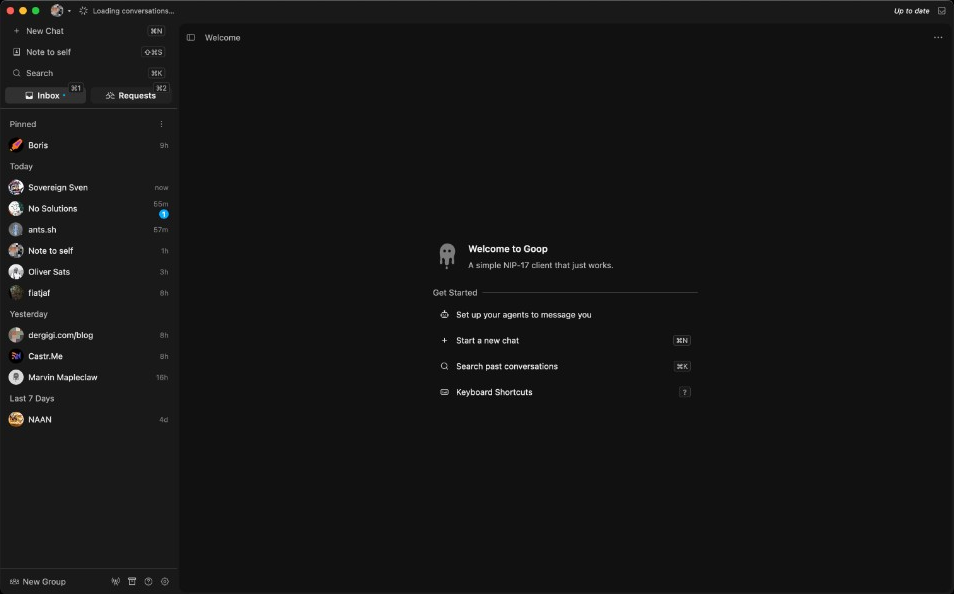
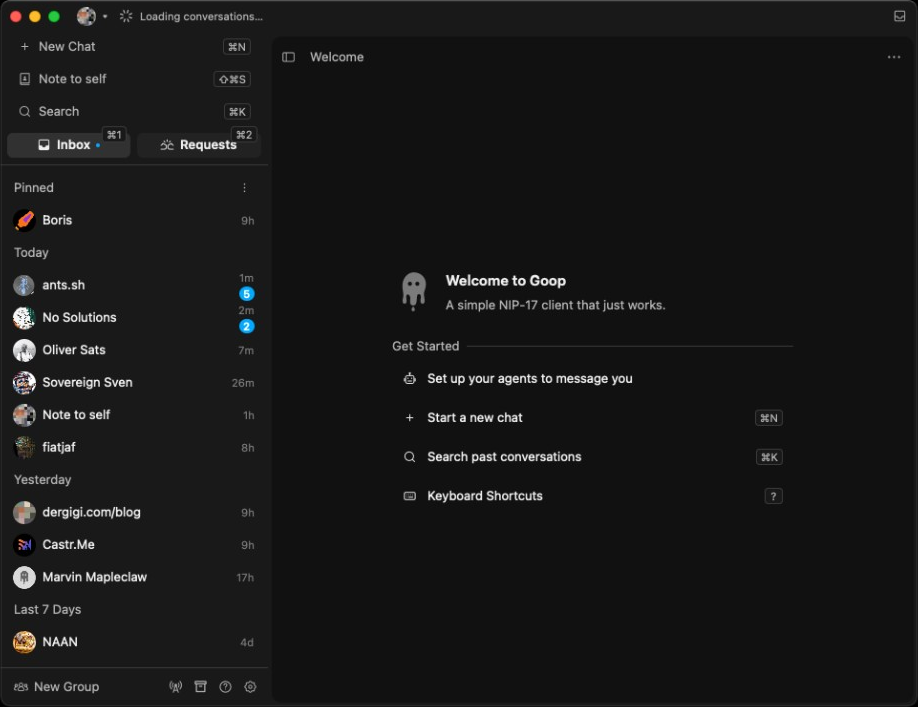
feat: three more screenshots, new welcome shot, ordered gallery with captions

diff --git a/src/lib/screenshots.ts b/src/lib/screenshots.ts
@@ -4,11 +4,20 @@ export type Screenshot = { src: string; width: number; height: number; caption: 
 
 const DIR = 'public/screenshots';
 
+// Gallery order and captions. Files not listed here come after, by filename.
 const CAPTIONS: Record<string, string> = {
-  goop: 'Welcome screen, macOS',
+  goop: 'Welcome screen',
+  'chat-agent': 'Chatting with an agent',
+  'chat-agent-light': 'Same chat, light theme',
+  'note-to-self-light': 'Note to self',
   macos: 'macOS',
   windows: 'Windows',
   linux: 'Linux',
+};
+const ORDER = Object.keys(CAPTIONS);
+const rank = (name: string) => {
+  const i = ORDER.indexOf(name);
+  return i === -1 ? ORDER.length : i;
 };
 
 // PNG header: width and height are big-endian uint32 at bytes 16 and 20.
@@ -27,6 +36,7 @@ export function allScreenshots(): Screenshot[] {
   if (!existsSync(DIR)) return [];
   return readdirSync(DIR)
     .filter((f) => f.endsWith('.png'))
-    .sort()
-    .map((f) => screenshot(f.slice(0, -4))!);
+    .map((f) => f.slice(0, -4))
+    .sort((a, b) => rank(a) - rank(b) || a.localeCompare(b))
+    .map((name) => screenshot(name)!);
 }
